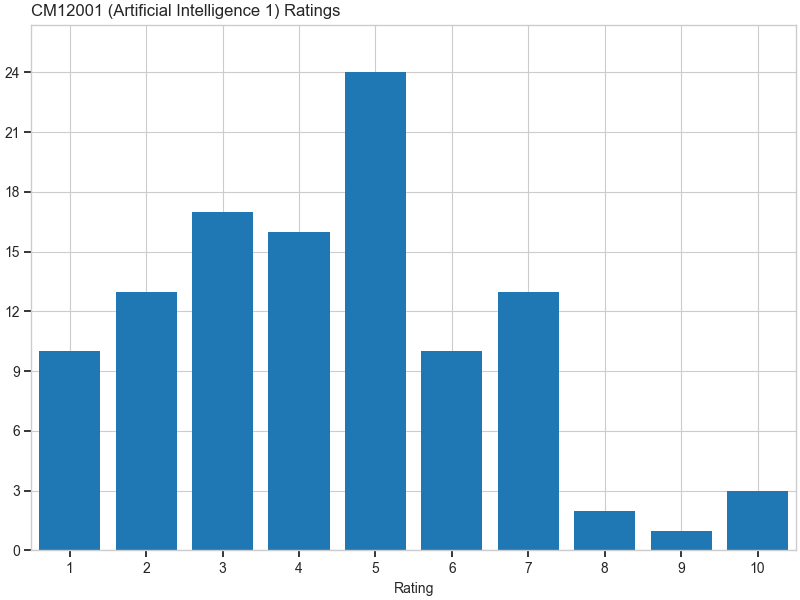
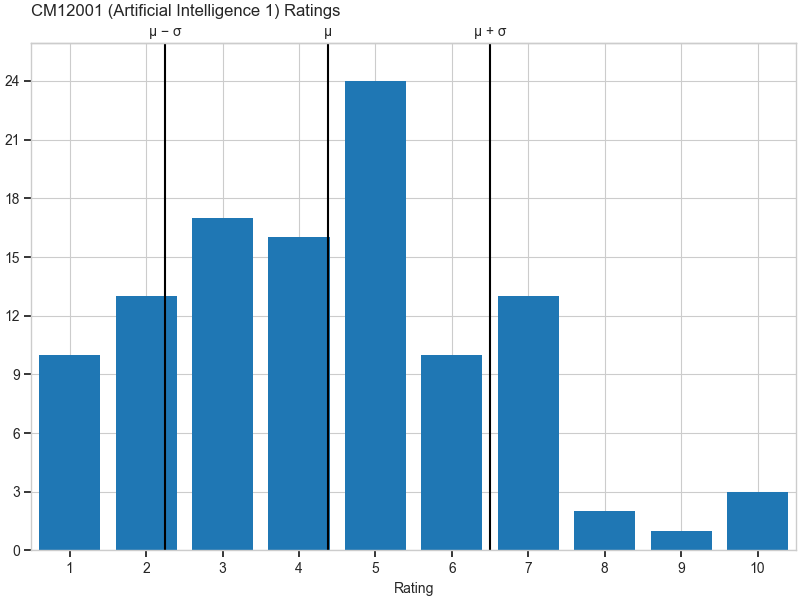
Means and st. dev shown

diff --git a/main.py b/main.py
@@ -16,6 +16,9 @@ def get_data(course_name, df):
     if course_df.shape[0] == 0:
         return None, None, None, None, None, None, None
 
+    course_mean = course_df[course_name].mean()
+    course_stdev = course_df[course_name].std()
+
     fig, ax = plt.subplots(figsize=(8, 6), layout="constrained")
 
     ax.tick_params(which="major", length=5, width=1.3)
@@ -27,17 +30,21 @@ def get_data(course_name, df):
 
     data = course_df[course_name].value_counts()
 
-    ax.set(xlim=(0.5, 10.5), ylim=(0, data.max() * 1.1))
+    ax.set(xlim=(0.5, 10.5), ylim=(0, data.max() * 1.08))
 
     ax.yaxis.set_major_locator(tck.MaxNLocator(integer=True))
 
     ax.bar(data.index, data)
 
+    ax.vlines(x=[course_mean, course_mean - course_stdev, course_mean + course_stdev],
+              ymin=-1000, ymax=1000, color="black")
+
+    ax2 = ax.secondary_xaxis('top')
+    ax2.set_xticks([course_mean, course_mean - course_stdev, course_mean + course_stdev])
+    ax2.set_xticklabels(["\u03BC", "\u03BC \u2212 \u03c3", "\u03BC \u002B \u03c3"])
+
     with open(f"Graphs/{course_name.replace('/', ',')}.png", "wb") as file:
         plt.savefig(file)
-
-    course_mean = course_df[course_name].mean()
-    course_stdev = course_df[course_name].std()
 
     mean_bounds = norm.interval(0.9, loc=course_mean, scale=(course_stdev/np.sqrt(course_df.shape[0])))
 
@@ -173,7 +180,6 @@ ax.tick_params(which="major", length=5, width=1.3)
 
 ax.set_title(f"Teaching Speed", loc="left")
 ax.set_xlabel("Course")
-ax.set_ylabel("Rating")
 
 # ax.set(xlim=(0.5, 10.5), ylim=(0, data.max() * 1.1))
 
